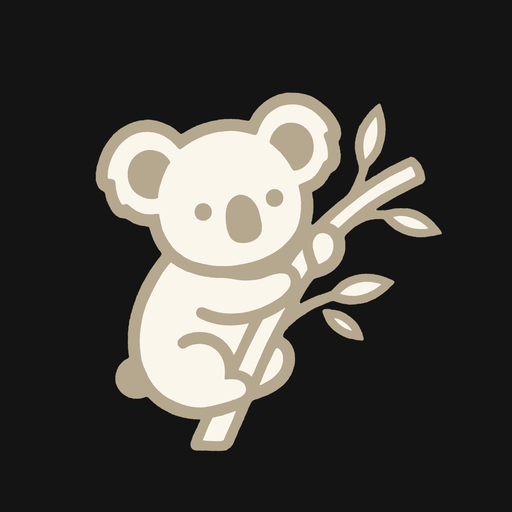
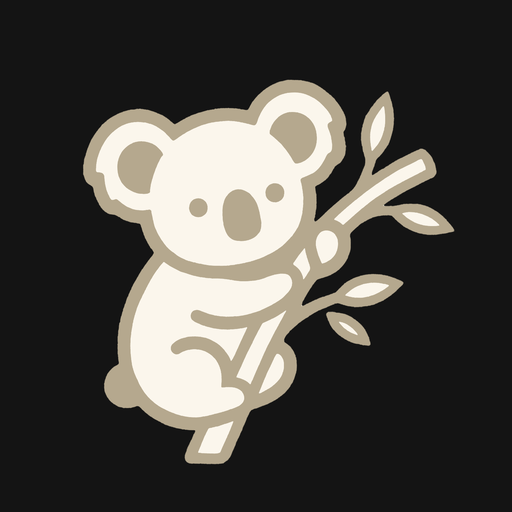
Icônes : koala à 75 % du carré

diff --git a/sw.js b/sw.js
@@ -7,7 +7,7 @@
 // Les données (API Supabase) ne passent jamais par ici : c'est app.js qui en
 // garde une copie sur l'appareil.
 // ⚠ Augmenter CACHE à chaque changement de la liste SHELL.
-const CACHE = "kenda-v16";
+const CACHE = "kenda-v17";
 const FONT_CACHE = "kenda-fonts";
 const NETWORK_TIMEOUT = 3000;
 const SHELL = [
